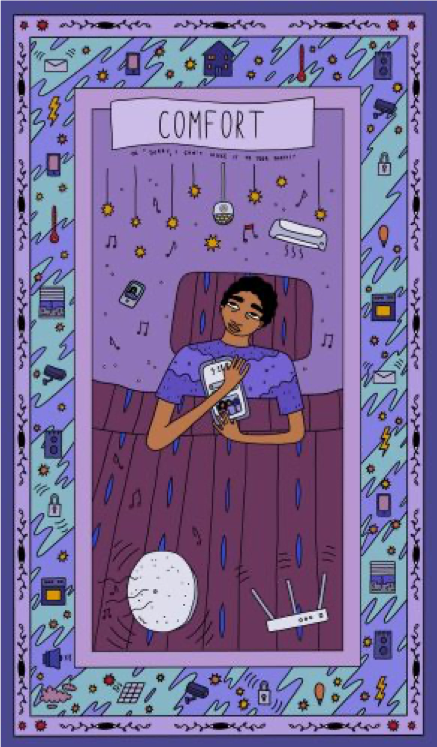
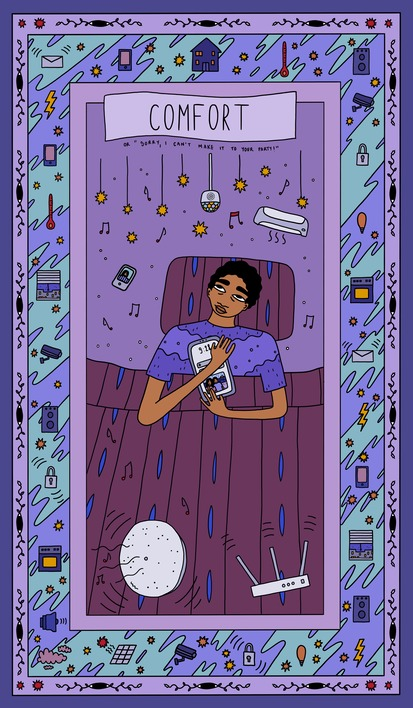
changed cards to high res, text box to 270 px

Changed region(s): [[0.0, 0.0, 0.9879, 0.9944], [0.2615, 0.3729, 0.3487, 0.4661]]

diff --git a/card1.html b/card1.html
@@ -15,18 +15,18 @@
    }
    @media only screen and (max-width: 600px) {
      #deck {
-       width: 350px; cursor:pointer
+       width: 270px; cursor:pointer
      }
    }
 
    @media only screen and (max-width: 600px) {
-     .answer{width:120px !important; }
+     .answer{width:270px !important; }
    }
    @media only screen and (min-width: 800px) {
-     .answer{width:200px !important; }
+     .answer{width:270px !important; }
    }
    @media only screen and (min-width: 1100px) {
-     .answer{width:250px !important; }
+     .answer{width:270px !important; }
    }
 
    .hidden {
@@ -55,7 +55,7 @@
    cursor: pointer;
    top: -30px;
    position: relative;}
-  .answer{background-color:#FFF; font-size:14px; color: blue; padding:30px 15px; width:270px; line-height:24px; text-align:left}
+  .answer{background-color:#FFF; font-size:14px; color: blue; padding:30px 15px; width: 500px; line-height:24px; text-align:left}
 
   #deck {
      padding: 10px;
